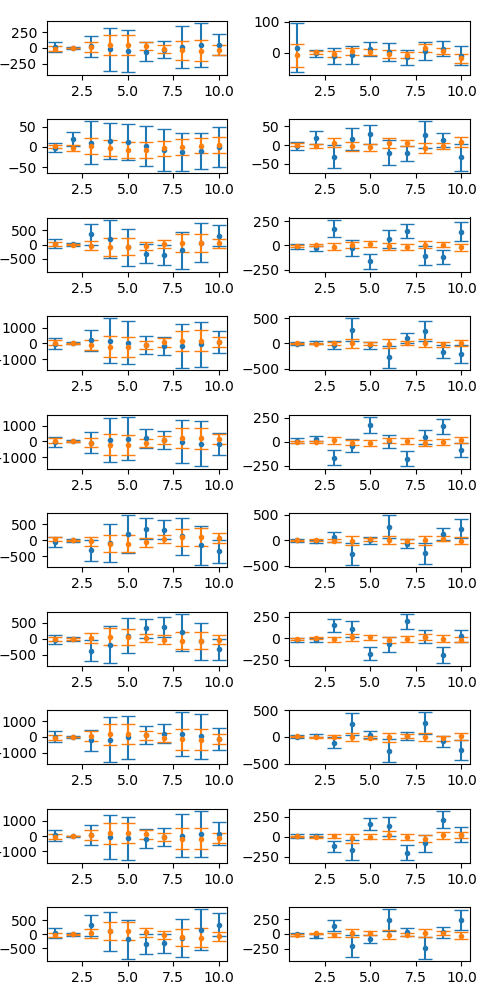
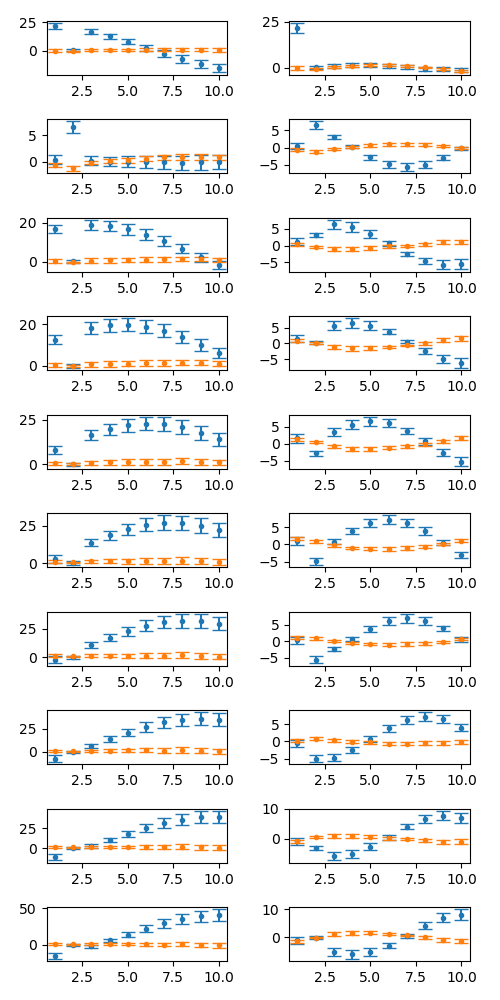
Pre merge commit

diff --git a/devsource/thimble_lattice.cpp b/devsource/thimble_lattice.cpp
@@ -107,9 +107,9 @@ dcomp thimble_system::calc_dS(uint site, uint field_type)
 {
   int field = 0;
   int internal_site = site; //this essentially takes the busy work out of calculating which field the Jacobian is dealing with
-  if (site > Ntot)
+  if (site > Ntot - 1)
   {
-    while (internal_site > Ntot)
+    while (internal_site > Ntot - 1)
     {
       internal_site -= Ntot;
       ++field;
@@ -145,13 +145,13 @@ dcomp thimble_system::calc_ddS(uint site_1, uint site_2, uint field_type)
   uint field_2 = 0;
   dcomp ddS;
 
-  while(site_1 > Ntot)
+  while(site_1 > Ntot - 1)
   {
     site_1 -= Ntot;
     ++field_1;
   }
   
-  while(site_2 > Ntot)
+  while(site_2 > Ntot - 1)
   {
     site_2 -= Ntot;
     ++field_2;
@@ -758,18 +758,30 @@ void thimble_system::restart(std::string data_path, std::string aux_path, int n_
 
 void thimble_system::test()
 {
-  double a[1], b[1], c[1], d[1];
-  a[1] = 1.;
-  b[1] = 1.;
-  c[1] = 1.;
-  d[1] = 1.;
-  add_scalar_field(1.0);
-  scalars[0].initialise(a, b, c, d);
-  for(int k = 0; k < 5; ++k)
+  
+  for (int i = 0; i < Ntot; ++i)
   {
-      for(int i = 0; i < Nrpath; ++i)
-      {
-        std::cout << "C[" << k << "][" << i << "] = " << scalars[0].C[k][i] << std::endl;
-      }
+    printf("C[4][%i] = %f%+fi \n", i, std::real(scalars[0].C[4][i]), std::imag(scalars[0].C[4][i]));
   }
+  
+  
+  for (int i = 0; i < Ntot; ++i)
+  {
+    std::cout << i << "\t" << scalars[0].path[i] << std::endl;
+  }
+
+  for (int i = 0; i < Nx; ++i)
+  {
+    printf("field_0[%i] = %f%+fi \n", i, std::real(scalars[0].field_0[i]), std::imag(scalars[0].field_0[i]));
+  }
+
+  for (int i = 0; i < Nx; ++i)
+  {
+    printf("field_1[%i] = %f%+fi \n", i, std::real(scalars[0].field_1[i]), std::imag(scalars[0].field_1[i]));
+  }
+  for (int i = 0; i < Nx; ++i)
+  {
+    printf("field_2[%i] = %f%+fi \n", i, std::real(scalars[0].field_2[i]), std::imag(scalars[0].field_2[i]));
+  }
+  
 }

diff --git a/devsource/scalars_and_interactions.cpp b/devsource/scalars_and_interactions.cpp
@@ -357,6 +357,12 @@ void scalar_field::initialise(double a[], double b[], double c[], double d[])
     field_2[i] = fields[2][i*host->Nrpath + 1];
   }
   calculate_C();
+  /*
+  for (int i = 0; i < host -> Nrpath; ++i)
+  {
+    printf("%f%+fi \n", real(fields[2][i]), imag(fields[2][i]));
+  }
+  */
 }
 
 void scalar_field::calculate_C()
@@ -374,9 +380,9 @@ void scalar_field::calculate_C()
   //edge terms for the edge effects
   for (int i = 0; i < host->Nx; ++i)
   {
-    C[4][i*host->Nrpath] = -2.*j*field_2[i]/dt;
-    C[4][i*host->Nrpath + 1] = j*field_1[i]/dt;
-    C[4][(i + 1)*host->Nrpath - 1] = -1.*j*field_1[i]/dt;
+    C[4][i*host->Nrpath] = -2.*j*dx*field_2[i]/dt;
+    C[4][i*host->Nrpath + 1] = j*dx*field_1[i]/dt;
+    C[4][(i + 1)*host->Nrpath - 1] = -1.*j*dx*field_1[i]/dt;
   }
 
   //applying the anti-periodic bounday terms
@@ -429,6 +435,7 @@ void scalar_field::set_dt(double new_dt)
   for (int i = 0; i < host->Nrpath; ++i)
   {
     path[i] *= new_dt/dt; //rescales the path to account for a new lattice spacing
+    path_offset[i] *= new_dt/dt;
   }
   dt = new_dt;
 }

diff --git a/devsource/main.cpp b/devsource/main.cpp
@@ -68,12 +68,30 @@ int main(int argc, char **argv)
   }
   
   /*
-  thimble_system sys(1, 10, 1.5, 100);
-  sys.set_name("phi_0");
+  seed = 5;
+  dcomp S;
+  for (int i = 0; i < 10; ++i)
+  {
+    thimble_system sys(1, 10, 0.2*i, seed);
+    sys.add_scalar_field(1.0);
+    sys.add_scalar_field(1.0);
+    sys.set_dt(0.5);
+    sys.set_dx(0.25);
+    sys.set_proposal_size(0.25);
+    sys.simulate(0, 0);
+    S = sys.get_S();
+    printf("S = %f%+fi \n", real(S), imag(S));
+  }
+ */
+  /*
+  thimble_system sys(1, 10, 1.8, 5);
   sys.add_scalar_field(1.0);
-  sys.set_dt(0.5);
-  sys.set_dx(0.75);
-  sys.restart("phi_0", "phi_0_aux", 20);
+  sys.add_scalar_field(1.0);
+  sys.set_dt(0.25);
+  sys.set_dx(0.25);
+  sys.set_proposal_size(0.25);
+  sys.simulate(0, 0);
+  sys.test();
   */
   
   auto end = std::chrono::system_clock::now();

diff --git a/devsource/Correlators/two_field_correlator.py b/devsource/Correlators/two_field_correlator.py
@@ -34,14 +34,14 @@ def observable(phi_data, header):
     return classical_classical_correlator
 
 
-n_files = 160
+n_files = 60
 jackknife_block_length = 250
 expectation_observable_phi = np.zeros((n_files, prot.Nt, prot.Nt), dtype = complex)
 expectation_observable_chi = np.copy(expectation_observable_phi)
 file_error_phi = np.zeros((n_files, prot.Nt, prot.Nt), dtype = complex)
 file_error_chi = np.copy(file_error_phi)
 x_range = np.arange(prot.Nt) + 1
-location = "/run/media/ppxsw1/78fe3857-1897-4617-a65e-83c9aa61be27/2_free_field_mass_field_sweep/"
+location = "/run/media/ppxsw1/78fe3857-1897-4617-a65e-83c9aa61be27/2_field_small_links/"
 for n in np.arange(n_files):
     #data location
     file_name = location + 'phi_' + str(n)

diff --git a/devsource/thimble_lattice.hpp b/devsource/thimble_lattice.hpp
@@ -175,6 +175,7 @@ class thimble_system
     void set_occupation_number(int field_number, int new_occupation_number[]);
     void set_occupation_number(int field_number, std::vector<int> new_occupation_number);
     void set_proposal_size(double new_delta);
+    dcomp get_S(){return S;};
     void test();
     
     //constructor and destructor
